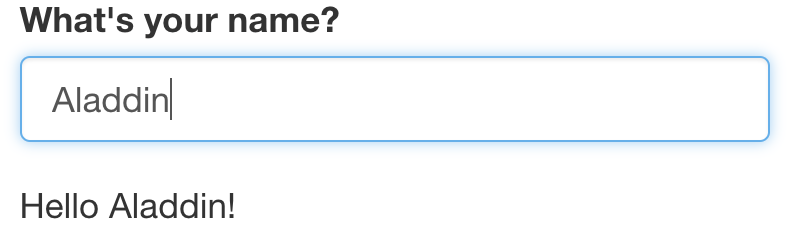
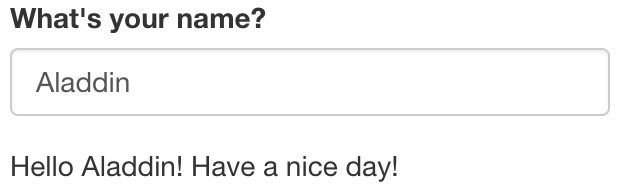
edit reactivity

diff --git a/docs/reactivity.html b/docs/reactivity.html
@@ -23,7 +23,7 @@
 <meta name="author" content="Nitika K., Adele B., Paul F. H." />
 
 
-<meta name="date" content="2022-04-28" />
+<meta name="date" content="2022-05-11" />
 
   <meta name="viewport" content="width=device-width, initial-scale=1" />
   <meta name="apple-mobile-web-app-capable" content="yes" />
@@ -180,7 +180,11 @@ code span.wa { color: #60a0b0; font-weight: bold; font-style: italic; } /* Warni
 <ul>
 <li><a href="reactivity.html#challenge-3-modify-greeting.r-to-print-the-reverse">Challenge 3: Modify <code>greeting.R</code> to print the reverse<span></span></a></li>
 </ul></li>
-<li class="chapter" data-level="4.2" data-path="reactivity.html"><a href="reactivity.html#reactive-expressions-save-recomputation"><i class="fa fa-check"></i><b>4.2</b> Reactive expressions save recomputation<span></span></a></li>
+<li class="chapter" data-level="4.2" data-path="reactivity.html"><a href="reactivity.html#reactive-expressions-save-recomputation"><i class="fa fa-check"></i><b>4.2</b> Reactive expressions save recomputation<span></span></a>
+<ul>
+<li class="chapter" data-level="4.2.1" data-path="reactivity.html"><a href="reactivity.html#r-expressiovs-vs-reactive-expressions"><i class="fa fa-check"></i><b>4.2.1</b> R expressiovs vs Reactive expressions<span></span></a></li>
+<li class="chapter" data-level="4.2.2" data-path="reactivity.html"><a href="reactivity.html#workings-of-reactive-expressions"><i class="fa fa-check"></i><b>4.2.2</b> Workings of reactive expressions<span></span></a></li>
+</ul></li>
 </ul></li>
 <li class="chapter" data-level="5" data-path="tutorial.html"><a href="tutorial.html"><i class="fa fa-check"></i><b>5</b> Shiny tutorial<span></span></a>
 <ul>
@@ -218,19 +222,19 @@ code span.wa { color: #60a0b0; font-weight: bold; font-style: italic; } /* Warni
 <div id="overview-of-reactivity" class="section level2 hasAnchor" number="4.1">
 <h2><span class="header-section-number">4.1</span> Overview of Reactivity<a href="reactivity.html#overview-of-reactivity" class="anchor-section" aria-label="Anchor link to header"></a></h2>
 <p>In Section <a href="structure.html#structure">3</a>, we mentioned that the Shiny server logic is based on reactive programming. The server takes input from the UI, runs the code chunks defined within, generates output and sends it to the UI. When you change the input, the server re-runs the code chunks and sends the updated output to the UI.</p>
-<p>Consider the following example. The UI takes a single text input i.e. name of a person. The server concatenates the input string with “Hello” at the start and, “!” at the end and returns this string to the UI.</p>
+<p>Consider the following example. The UI takes a single text input i.e. name of a person. The server concatenates the input string with “Hello” at the start and, “!” at the end, followed by another string “Have a nice day!”, and returns the concatenated string to the UI and prints as output.</p>
 <div class="sourceCode" id="cb1"><pre class="sourceCode r"><code class="sourceCode r"><span id="cb1-1"><a href="reactivity.html#cb1-1" aria-hidden="true" tabindex="-1"></a>ui <span class="ot">&lt;-</span> <span class="fu">fluidPage</span>(</span>
-<span id="cb1-2"><a href="reactivity.html#cb1-2" aria-hidden="true" tabindex="-1"></a>  <span class="fu">textInput</span>(<span class="st">&quot;name&quot;</span>, <span class="st">&quot;What&#39;s your name?&quot;</span>),</span>
-<span id="cb1-3"><a href="reactivity.html#cb1-3" aria-hidden="true" tabindex="-1"></a>  <span class="fu">textOutput</span>(<span class="st">&quot;greeting&quot;</span>)</span>
+<span id="cb1-2"><a href="reactivity.html#cb1-2" aria-hidden="true" tabindex="-1"></a>    <span class="fu">textInput</span>(<span class="st">&quot;name&quot;</span>, <span class="st">&quot;What&#39;s your name?&quot;</span>),</span>
+<span id="cb1-3"><a href="reactivity.html#cb1-3" aria-hidden="true" tabindex="-1"></a>    <span class="fu">textOutput</span>(<span class="st">&quot;greeting&quot;</span>)</span>
 <span id="cb1-4"><a href="reactivity.html#cb1-4" aria-hidden="true" tabindex="-1"></a>)</span>
 <span id="cb1-5"><a href="reactivity.html#cb1-5" aria-hidden="true" tabindex="-1"></a></span>
 <span id="cb1-6"><a href="reactivity.html#cb1-6" aria-hidden="true" tabindex="-1"></a>server <span class="ot">&lt;-</span> <span class="cf">function</span>(input, output, session) {</span>
-<span id="cb1-7"><a href="reactivity.html#cb1-7" aria-hidden="true" tabindex="-1"></a>  output<span class="sc">$</span>greeting <span class="ot">&lt;-</span> <span class="fu">renderText</span>({</span>
-<span id="cb1-8"><a href="reactivity.html#cb1-8" aria-hidden="true" tabindex="-1"></a>    <span class="fu">paste0</span>(<span class="st">&quot;Hello &quot;</span>, input<span class="sc">$</span>name, <span class="st">&quot;!&quot;</span>)</span>
-<span id="cb1-9"><a href="reactivity.html#cb1-9" aria-hidden="true" tabindex="-1"></a>  })</span>
+<span id="cb1-7"><a href="reactivity.html#cb1-7" aria-hidden="true" tabindex="-1"></a>    output<span class="sc">$</span>greeting <span class="ot">&lt;-</span> <span class="fu">renderText</span>({</span>
+<span id="cb1-8"><a href="reactivity.html#cb1-8" aria-hidden="true" tabindex="-1"></a>        <span class="fu">paste0</span>(<span class="st">&quot;Hello &quot;</span>, input<span class="sc">$</span>name, <span class="st">&quot;!&quot;</span>, <span class="st">&quot;</span><span class="sc">\n</span><span class="st">&quot;</span>, <span class="st">&quot;Have a nice day!&quot;</span>)</span>
+<span id="cb1-9"><a href="reactivity.html#cb1-9" aria-hidden="true" tabindex="-1"></a>    })</span>
 <span id="cb1-10"><a href="reactivity.html#cb1-10" aria-hidden="true" tabindex="-1"></a>}</span></code></pre></div>
 <p><img src="figs/Nitika.png" style="width:50.0%" />
-<img src="figs/bat.png" style="width:50.0%" />
+<img src="figs/Batman.png" style="width:50.0%" />
 <img src="figs/Aladdin.png" style="width:50.0%" /></p>
 <div id="challenge-3-modify-greeting.r-to-print-the-reverse" class="section level3 unnumbered challenge hasAnchor">
 <h3>Challenge 3: Modify <code>greeting.R</code> to print the reverse<a href="reactivity.html#challenge-3-modify-greeting.r-to-print-the-reverse" class="anchor-section" aria-label="Anchor link to header"></a></h3>
@@ -243,110 +247,141 @@ code span.wa { color: #60a0b0; font-weight: bold; font-style: italic; } /* Warni
 </div>
 <div id="reactive-expressions-save-recomputation" class="section level2 hasAnchor" number="4.2">
 <h2><span class="header-section-number">4.2</span> Reactive expressions save recomputation<a href="reactivity.html#reactive-expressions-save-recomputation" class="anchor-section" aria-label="Anchor link to header"></a></h2>
+<div id="r-expressiovs-vs-reactive-expressions" class="section level3 hasAnchor" number="4.2.1">
+<h3><span class="header-section-number">4.2.1</span> R expressiovs vs Reactive expressions<a href="reactivity.html#r-expressiovs-vs-reactive-expressions" class="anchor-section" aria-label="Anchor link to header"></a></h3>
+<p>In this example, we assign a value of <code>5</code> to the variable <code>a</code>. Using R expressions, we add <code>10</code> to <code>a</code>, which prints the result as <code>15</code>. Then, we update the value of <code>a</code> to <code>10</code>. Even though, the new value of <code>a</code> is now <code>10</code>, nothing happens! This is because, we haven’t called the expression <code>a + 10</code>. In order to see the updated output of our expression, we need to explicitly re-run the expression. This is how the R expressions work.</p>
+<div class="sourceCode" id="cb2"><pre class="sourceCode r"><code class="sourceCode r"><span id="cb2-1"><a href="reactivity.html#cb2-1" aria-hidden="true" tabindex="-1"></a>a <span class="ot">&lt;-</span> <span class="dv">5</span></span>
+<span id="cb2-2"><a href="reactivity.html#cb2-2" aria-hidden="true" tabindex="-1"></a>a <span class="sc">+</span> <span class="dv">10</span></span></code></pre></div>
+<pre><code>## [1] 15</code></pre>
+<div class="sourceCode" id="cb4"><pre class="sourceCode r"><code class="sourceCode r"><span id="cb4-1"><a href="reactivity.html#cb4-1" aria-hidden="true" tabindex="-1"></a>a <span class="ot">&lt;-</span> <span class="dv">10</span></span>
+<span id="cb4-2"><a href="reactivity.html#cb4-2" aria-hidden="true" tabindex="-1"></a>a</span></code></pre></div>
+<pre><code>## [1] 10</code></pre>
+<p>The input of a reactive expression is called a reactive input. When we change the reactive input value <code>input$a</code>, the expression itself changes and re-executes itself, if necessary.</p>
 <p>Example of a reactive expression</p>
-<div class="sourceCode" id="cb2"><pre class="sourceCode r"><code class="sourceCode r"><span id="cb2-1"><a href="reactivity.html#cb2-1" aria-hidden="true" tabindex="-1"></a><span class="fu">library</span>(shiny)</span>
-<span id="cb2-2"><a href="reactivity.html#cb2-2" aria-hidden="true" tabindex="-1"></a>y <span class="ot">&lt;-</span> <span class="fu">reactive</span>(input<span class="sc">$</span>x <span class="sc">+</span> <span class="dv">1</span>)</span>
-<span id="cb2-3"><a href="reactivity.html#cb2-3" aria-hidden="true" tabindex="-1"></a></span>
-<span id="cb2-4"><a href="reactivity.html#cb2-4" aria-hidden="true" tabindex="-1"></a><span class="co"># or</span></span>
-<span id="cb2-5"><a href="reactivity.html#cb2-5" aria-hidden="true" tabindex="-1"></a>y <span class="ot">&lt;-</span> <span class="fu">reactive</span>({</span>
-<span id="cb2-6"><a href="reactivity.html#cb2-6" aria-hidden="true" tabindex="-1"></a>    input<span class="sc">$</span>x <span class="sc">+</span> <span class="dv">1</span></span>
-<span id="cb2-7"><a href="reactivity.html#cb2-7" aria-hidden="true" tabindex="-1"></a>})</span>
-<span id="cb2-8"><a href="reactivity.html#cb2-8" aria-hidden="true" tabindex="-1"></a></span>
-<span id="cb2-9"><a href="reactivity.html#cb2-9" aria-hidden="true" tabindex="-1"></a><span class="co"># or</span></span>
-<span id="cb2-10"><a href="reactivity.html#cb2-10" aria-hidden="true" tabindex="-1"></a>y <span class="ot">&lt;-</span> <span class="fu">reactive</span>({</span>
-<span id="cb2-11"><a href="reactivity.html#cb2-11" aria-hidden="true" tabindex="-1"></a>    <span class="fu">return</span>(input<span class="sc">$</span>x <span class="sc">+</span> <span class="dv">1</span>)</span>
-<span id="cb2-12"><a href="reactivity.html#cb2-12" aria-hidden="true" tabindex="-1"></a>})</span></code></pre></div>
+<div class="sourceCode" id="cb6"><pre class="sourceCode r"><code class="sourceCode r"><span id="cb6-1"><a href="reactivity.html#cb6-1" aria-hidden="true" tabindex="-1"></a><span class="fu">library</span>(shiny)</span>
+<span id="cb6-2"><a href="reactivity.html#cb6-2" aria-hidden="true" tabindex="-1"></a>y <span class="ot">&lt;-</span> <span class="fu">reactive</span>(input<span class="sc">$</span>a <span class="sc">+</span> <span class="dv">1</span>)</span></code></pre></div>
+<p>You can write the same expression in different ways:</p>
+<div class="sourceCode" id="cb7"><pre class="sourceCode r"><code class="sourceCode r"><span id="cb7-1"><a href="reactivity.html#cb7-1" aria-hidden="true" tabindex="-1"></a><span class="co"># or</span></span>
+<span id="cb7-2"><a href="reactivity.html#cb7-2" aria-hidden="true" tabindex="-1"></a>y <span class="ot">&lt;-</span> <span class="fu">reactive</span>({</span>
+<span id="cb7-3"><a href="reactivity.html#cb7-3" aria-hidden="true" tabindex="-1"></a>    input<span class="sc">$</span>a <span class="sc">+</span> <span class="dv">1</span></span>
+<span id="cb7-4"><a href="reactivity.html#cb7-4" aria-hidden="true" tabindex="-1"></a>})</span>
+<span id="cb7-5"><a href="reactivity.html#cb7-5" aria-hidden="true" tabindex="-1"></a></span>
+<span id="cb7-6"><a href="reactivity.html#cb7-6" aria-hidden="true" tabindex="-1"></a><span class="co"># or</span></span>
+<span id="cb7-7"><a href="reactivity.html#cb7-7" aria-hidden="true" tabindex="-1"></a>y <span class="ot">&lt;-</span> <span class="fu">reactive</span>({</span>
+<span id="cb7-8"><a href="reactivity.html#cb7-8" aria-hidden="true" tabindex="-1"></a>    <span class="fu">return</span>(input<span class="sc">$</span>a <span class="sc">+</span> <span class="dv">1</span>)</span>
+<span id="cb7-9"><a href="reactivity.html#cb7-9" aria-hidden="true" tabindex="-1"></a>})</span></code></pre></div>
+</div>
+<div id="workings-of-reactive-expressions" class="section level3 hasAnchor" number="4.2.2">
+<h3><span class="header-section-number">4.2.2</span> Workings of reactive expressions<a href="reactivity.html#workings-of-reactive-expressions" class="anchor-section" aria-label="Anchor link to header"></a></h3>
+<div class="sourceCode" id="cb8"><pre class="sourceCode r"><code class="sourceCode r"><span id="cb8-1"><a href="reactivity.html#cb8-1" aria-hidden="true" tabindex="-1"></a>input <span class="ot">&lt;-</span> <span class="fu">reactiveValues</span>(<span class="at">a=</span><span class="dv">1</span>)</span>
+<span id="cb8-2"><a href="reactivity.html#cb8-2" aria-hidden="true" tabindex="-1"></a></span>
+<span id="cb8-3"><a href="reactivity.html#cb8-3" aria-hidden="true" tabindex="-1"></a>expr1 <span class="ot">&lt;-</span> <span class="fu">reactive</span>({</span>
+<span id="cb8-4"><a href="reactivity.html#cb8-4" aria-hidden="true" tabindex="-1"></a>    input<span class="sc">$</span>a <span class="sc">+</span> <span class="dv">1</span></span>
+<span id="cb8-5"><a href="reactivity.html#cb8-5" aria-hidden="true" tabindex="-1"></a>})</span>
+<span id="cb8-6"><a href="reactivity.html#cb8-6" aria-hidden="true" tabindex="-1"></a></span>
+<span id="cb8-7"><a href="reactivity.html#cb8-7" aria-hidden="true" tabindex="-1"></a></span>
+<span id="cb8-8"><a href="reactivity.html#cb8-8" aria-hidden="true" tabindex="-1"></a>expr2 <span class="ot">&lt;-</span> <span class="fu">reactive</span>({ </span>
+<span id="cb8-9"><a href="reactivity.html#cb8-9" aria-hidden="true" tabindex="-1"></a>    input<span class="sc">$</span>a <span class="sc">*</span> <span class="dv">10</span> })</span>
+<span id="cb8-10"><a href="reactivity.html#cb8-10" aria-hidden="true" tabindex="-1"></a></span>
+<span id="cb8-11"><a href="reactivity.html#cb8-11" aria-hidden="true" tabindex="-1"></a></span>
+<span id="cb8-12"><a href="reactivity.html#cb8-12" aria-hidden="true" tabindex="-1"></a>expr3 <span class="ot">&lt;-</span> <span class="fu">reactive</span>({</span>
+<span id="cb8-13"><a href="reactivity.html#cb8-13" aria-hidden="true" tabindex="-1"></a>    (input<span class="sc">$</span>a <span class="sc">+</span> <span class="dv">3</span>)<span class="sc">*</span><span class="dv">4</span>})</span></code></pre></div>
+<p>You execute the reactive expressions just as you would a function. <code>isolate()</code> helps us view the values of the reactive expression in the R console.</p>
+<div class="sourceCode" id="cb9"><pre class="sourceCode r"><code class="sourceCode r"><span id="cb9-1"><a href="reactivity.html#cb9-1" aria-hidden="true" tabindex="-1"></a><span class="fu">isolate</span>(<span class="fu">expr1</span>())</span>
+<span id="cb9-2"><a href="reactivity.html#cb9-2" aria-hidden="true" tabindex="-1"></a><span class="fu">isolate</span>(<span class="fu">expr2</span>())</span>
+<span id="cb9-3"><a href="reactivity.html#cb9-3" aria-hidden="true" tabindex="-1"></a><span class="fu">isolate</span>(<span class="fu">expr3</span>())</span></code></pre></div>
 <p>Reactivity explained using Pythagoras calculation: We have used <code>browser()</code> calls to debug the function</p>
-<div class="sourceCode" id="cb3"><pre class="sourceCode r"><code class="sourceCode r"><span id="cb3-1"><a href="reactivity.html#cb3-1" aria-hidden="true" tabindex="-1"></a>ui_pythagorus <span class="ot">&lt;-</span> <span class="fu">fluidPage</span>(</span>
-<span id="cb3-2"><a href="reactivity.html#cb3-2" aria-hidden="true" tabindex="-1"></a>    <span class="fu">titlePanel</span>(<span class="st">&quot;Hypotenuse app&quot;</span>),</span>
-<span id="cb3-3"><a href="reactivity.html#cb3-3" aria-hidden="true" tabindex="-1"></a>    <span class="fu">sliderInput</span>(<span class="st">&quot;a&quot;</span>, <span class="st">&quot;Length a&quot;</span>, <span class="dv">0</span>, <span class="dv">10</span>, <span class="dv">5</span>),</span>
-<span id="cb3-4"><a href="reactivity.html#cb3-4" aria-hidden="true" tabindex="-1"></a>    <span class="fu">sliderInput</span>(<span class="st">&quot;b&quot;</span>, <span class="st">&quot;Length b&quot;</span>, <span class="dv">0</span>, <span class="dv">10</span>, <span class="dv">5</span>),</span>
-<span id="cb3-5"><a href="reactivity.html#cb3-5" aria-hidden="true" tabindex="-1"></a>    <span class="fu">textOutput</span>(<span class="st">&quot;result&quot;</span>))</span>
-<span id="cb3-6"><a href="reactivity.html#cb3-6" aria-hidden="true" tabindex="-1"></a></span>
-<span id="cb3-7"><a href="reactivity.html#cb3-7" aria-hidden="true" tabindex="-1"></a>server_pythagorus <span class="ot">&lt;-</span> <span class="cf">function</span>(input, output, server) {</span>
-<span id="cb3-8"><a href="reactivity.html#cb3-8" aria-hidden="true" tabindex="-1"></a>    a2 <span class="ot">&lt;-</span> <span class="fu">reactive</span>({</span>
-<span id="cb3-9"><a href="reactivity.html#cb3-9" aria-hidden="true" tabindex="-1"></a>        <span class="fu">cat</span>(<span class="st">&quot;Compute a squared.</span><span class="sc">\n</span><span class="st">&quot;</span>)</span>
-<span id="cb3-10"><a href="reactivity.html#cb3-10" aria-hidden="true" tabindex="-1"></a></span>
-<span id="cb3-11"><a href="reactivity.html#cb3-11" aria-hidden="true" tabindex="-1"></a>        input<span class="sc">$</span>a <span class="sc">**</span> <span class="dv">2</span></span>
-<span id="cb3-12"><a href="reactivity.html#cb3-12" aria-hidden="true" tabindex="-1"></a>    })</span>
-<span id="cb3-13"><a href="reactivity.html#cb3-13" aria-hidden="true" tabindex="-1"></a>    <span class="fu">browser</span>()</span>
-<span id="cb3-14"><a href="reactivity.html#cb3-14" aria-hidden="true" tabindex="-1"></a></span>
-<span id="cb3-15"><a href="reactivity.html#cb3-15" aria-hidden="true" tabindex="-1"></a>    b2 <span class="ot">&lt;-</span> <span class="fu">reactive</span>({</span>
-<span id="cb3-16"><a href="reactivity.html#cb3-16" aria-hidden="true" tabindex="-1"></a>        <span class="fu">cat</span>(<span class="st">&quot;Compute b squared.</span><span class="sc">\n</span><span class="st">&quot;</span>)</span>
-<span id="cb3-17"><a href="reactivity.html#cb3-17" aria-hidden="true" tabindex="-1"></a></span>
-<span id="cb3-18"><a href="reactivity.html#cb3-18" aria-hidden="true" tabindex="-1"></a>        input<span class="sc">$</span>b <span class="sc">**</span> <span class="dv">2</span></span>
-<span id="cb3-19"><a href="reactivity.html#cb3-19" aria-hidden="true" tabindex="-1"></a>    })</span>
-<span id="cb3-20"><a href="reactivity.html#cb3-20" aria-hidden="true" tabindex="-1"></a>    <span class="fu">browser</span>()</span>
-<span id="cb3-21"><a href="reactivity.html#cb3-21" aria-hidden="true" tabindex="-1"></a></span>
-<span id="cb3-22"><a href="reactivity.html#cb3-22" aria-hidden="true" tabindex="-1"></a>    output<span class="sc">$</span>result <span class="ot">&lt;-</span> <span class="fu">renderText</span>({</span>
-<span id="cb3-23"><a href="reactivity.html#cb3-23" aria-hidden="true" tabindex="-1"></a>        <span class="fu">cat</span>(<span class="st">&quot;Compute hypotenuse.</span><span class="sc">\n</span><span class="st">&quot;</span>)</span>
-<span id="cb3-24"><a href="reactivity.html#cb3-24" aria-hidden="true" tabindex="-1"></a>        h <span class="ot">&lt;-</span> <span class="fu">sqrt</span>(<span class="fu">a2</span>() <span class="sc">+</span> <span class="fu">b2</span>())</span>
-<span id="cb3-25"><a href="reactivity.html#cb3-25" aria-hidden="true" tabindex="-1"></a>        <span class="fu">cat</span>(<span class="st">&quot;Done computing hypotenuse.</span><span class="sc">\n</span><span class="st">&quot;</span>)</span>
-<span id="cb3-26"><a href="reactivity.html#cb3-26" aria-hidden="true" tabindex="-1"></a></span>
-<span id="cb3-27"><a href="reactivity.html#cb3-27" aria-hidden="true" tabindex="-1"></a>        <span class="fu">paste0</span>(<span class="st">&quot;The hypotenuse is &quot;</span>, h)</span>
-<span id="cb3-28"><a href="reactivity.html#cb3-28" aria-hidden="true" tabindex="-1"></a>    })</span>
-<span id="cb3-29"><a href="reactivity.html#cb3-29" aria-hidden="true" tabindex="-1"></a>    <span class="fu">browser</span>()</span>
-<span id="cb3-30"><a href="reactivity.html#cb3-30" aria-hidden="true" tabindex="-1"></a>}</span></code></pre></div>
+<div class="sourceCode" id="cb10"><pre class="sourceCode r"><code class="sourceCode r"><span id="cb10-1"><a href="reactivity.html#cb10-1" aria-hidden="true" tabindex="-1"></a>ui_pythagorus <span class="ot">&lt;-</span> <span class="fu">fluidPage</span>(</span>
+<span id="cb10-2"><a href="reactivity.html#cb10-2" aria-hidden="true" tabindex="-1"></a>    <span class="fu">titlePanel</span>(<span class="st">&quot;Hypotenuse app&quot;</span>),</span>
+<span id="cb10-3"><a href="reactivity.html#cb10-3" aria-hidden="true" tabindex="-1"></a>    <span class="fu">sliderInput</span>(<span class="st">&quot;a&quot;</span>, <span class="st">&quot;Length a&quot;</span>, <span class="dv">0</span>, <span class="dv">10</span>, <span class="dv">5</span>),</span>
+<span id="cb10-4"><a href="reactivity.html#cb10-4" aria-hidden="true" tabindex="-1"></a>    <span class="fu">sliderInput</span>(<span class="st">&quot;b&quot;</span>, <span class="st">&quot;Length b&quot;</span>, <span class="dv">0</span>, <span class="dv">10</span>, <span class="dv">5</span>),</span>
+<span id="cb10-5"><a href="reactivity.html#cb10-5" aria-hidden="true" tabindex="-1"></a>    <span class="fu">textOutput</span>(<span class="st">&quot;result&quot;</span>))</span>
+<span id="cb10-6"><a href="reactivity.html#cb10-6" aria-hidden="true" tabindex="-1"></a></span>
+<span id="cb10-7"><a href="reactivity.html#cb10-7" aria-hidden="true" tabindex="-1"></a>server_pythagorus <span class="ot">&lt;-</span> <span class="cf">function</span>(input, output, server) {</span>
+<span id="cb10-8"><a href="reactivity.html#cb10-8" aria-hidden="true" tabindex="-1"></a>    a2 <span class="ot">&lt;-</span> <span class="fu">reactive</span>({</span>
+<span id="cb10-9"><a href="reactivity.html#cb10-9" aria-hidden="true" tabindex="-1"></a>        <span class="fu">cat</span>(<span class="st">&quot;Compute a squared.</span><span class="sc">\n</span><span class="st">&quot;</span>)</span>
+<span id="cb10-10"><a href="reactivity.html#cb10-10" aria-hidden="true" tabindex="-1"></a></span>
+<span id="cb10-11"><a href="reactivity.html#cb10-11" aria-hidden="true" tabindex="-1"></a>        input<span class="sc">$</span>a <span class="sc">**</span> <span class="dv">2</span></span>
+<span id="cb10-12"><a href="reactivity.html#cb10-12" aria-hidden="true" tabindex="-1"></a>    })</span>
+<span id="cb10-13"><a href="reactivity.html#cb10-13" aria-hidden="true" tabindex="-1"></a>    <span class="fu">browser</span>()</span>
+<span id="cb10-14"><a href="reactivity.html#cb10-14" aria-hidden="true" tabindex="-1"></a></span>
+<span id="cb10-15"><a href="reactivity.html#cb10-15" aria-hidden="true" tabindex="-1"></a>    b2 <span class="ot">&lt;-</span> <span class="fu">reactive</span>({</span>
+<span id="cb10-16"><a href="reactivity.html#cb10-16" aria-hidden="true" tabindex="-1"></a>        <span class="fu">cat</span>(<span class="st">&quot;Compute b squared.</span><span class="sc">\n</span><span class="st">&quot;</span>)</span>
+<span id="cb10-17"><a href="reactivity.html#cb10-17" aria-hidden="true" tabindex="-1"></a></span>
+<span id="cb10-18"><a href="reactivity.html#cb10-18" aria-hidden="true" tabindex="-1"></a>        input<span class="sc">$</span>b <span class="sc">**</span> <span class="dv">2</span></span>
+<span id="cb10-19"><a href="reactivity.html#cb10-19" aria-hidden="true" tabindex="-1"></a>    })</span>
+<span id="cb10-20"><a href="reactivity.html#cb10-20" aria-hidden="true" tabindex="-1"></a>    <span class="fu">browser</span>()</span>
+<span id="cb10-21"><a href="reactivity.html#cb10-21" aria-hidden="true" tabindex="-1"></a></span>
+<span id="cb10-22"><a href="reactivity.html#cb10-22" aria-hidden="true" tabindex="-1"></a>    output<span class="sc">$</span>result <span class="ot">&lt;-</span> <span class="fu">renderText</span>({</span>
+<span id="cb10-23"><a href="reactivity.html#cb10-23" aria-hidden="true" tabindex="-1"></a>        <span class="fu">cat</span>(<span class="st">&quot;Compute hypotenuse.</span><span class="sc">\n</span><span class="st">&quot;</span>)</span>
+<span id="cb10-24"><a href="reactivity.html#cb10-24" aria-hidden="true" tabindex="-1"></a>        h <span class="ot">&lt;-</span> <span class="fu">sqrt</span>(<span class="fu">a2</span>() <span class="sc">+</span> <span class="fu">b2</span>())</span>
+<span id="cb10-25"><a href="reactivity.html#cb10-25" aria-hidden="true" tabindex="-1"></a>        <span class="fu">cat</span>(<span class="st">&quot;Done computing hypotenuse.</span><span class="sc">\n</span><span class="st">&quot;</span>)</span>
+<span id="cb10-26"><a href="reactivity.html#cb10-26" aria-hidden="true" tabindex="-1"></a></span>
+<span id="cb10-27"><a href="reactivity.html#cb10-27" aria-hidden="true" tabindex="-1"></a>        <span class="fu">paste0</span>(<span class="st">&quot;The hypotenuse is &quot;</span>, h)</span>
+<span id="cb10-28"><a href="reactivity.html#cb10-28" aria-hidden="true" tabindex="-1"></a>    })</span>
+<span id="cb10-29"><a href="reactivity.html#cb10-29" aria-hidden="true" tabindex="-1"></a>    <span class="fu">browser</span>()</span>
+<span id="cb10-30"><a href="reactivity.html#cb10-30" aria-hidden="true" tabindex="-1"></a>}</span></code></pre></div>
 <p>Now, we run the function</p>
-<div class="sourceCode" id="cb4"><pre class="sourceCode r"><code class="sourceCode r"><span id="cb4-1"><a href="reactivity.html#cb4-1" aria-hidden="true" tabindex="-1"></a><span class="fu">server_pythagorus</span>()</span></code></pre></div>
+<div class="sourceCode" id="cb11"><pre class="sourceCode r"><code class="sourceCode r"><span id="cb11-1"><a href="reactivity.html#cb11-1" aria-hidden="true" tabindex="-1"></a><span class="fu">server_pythagorus</span>()</span></code></pre></div>
 <p>There are two types of functions that we can use to access reactivity. We can use <code>render</code> functions or the <code>reactive</code> function. In most simple examples of Shiny applications, we are able to directly connect/link an input widget and an output object with a <code>renderX</code> function (e.g <code>renderTable</code>, <code>renderText</code>, <code>renderPlot</code>). These <code>renderX</code> functions are activated/re-calculated whenever the value of <code>input$someInputId</code> provided to that <code>renderX</code> function is updated/changed.</p>
 <p>In such situations, the result is directed to an output on the UI. But what if you wanted to use the calculated result for multiple outputs? Since the <code>render</code> function directs its result into an output, this means that this value is not freely available to be used by other <code>render</code> functions. One solution could be to run the calculation multiple times with each <code>render</code> function. This isn’t a very efficient solution but it might be one that would do the job. However consider if the calculation was a very large one, rerunning this calculation multiple times might slow the app down a lot to the point of it becoming inoperable.</p>
 <p>This is a situation where a <code>reactive</code> function would be useful. The output of a reactive function can be assigned to a variable name and this variable can be called within different <code>render</code> functions. Like a <code>render</code> function, the <code>reactive</code> function is recalculated any time the value of <code>input$anInputId</code> inside the reactive function is updated or changed.</p>
 <p>Therefore for a more efficient solution, the calculation could performed in the reactive function once and then in multiple <code>render</code> functions, the value of the <code>reactive</code> function could be called.</p>
 <p>Here is an example without a <code>reactive</code> function, somewhat contrived:</p>
-<div class="sourceCode" id="cb5"><pre class="sourceCode r"><code class="sourceCode r"><span id="cb5-1"><a href="reactivity.html#cb5-1" aria-hidden="true" tabindex="-1"></a><span class="fu">library</span>(shiny)</span>
-<span id="cb5-2"><a href="reactivity.html#cb5-2" aria-hidden="true" tabindex="-1"></a><span class="fu">data</span>(<span class="st">&quot;airquality&quot;</span>)</span>
-<span id="cb5-3"><a href="reactivity.html#cb5-3" aria-hidden="true" tabindex="-1"></a></span>
-<span id="cb5-4"><a href="reactivity.html#cb5-4" aria-hidden="true" tabindex="-1"></a>ui <span class="ot">&lt;-</span> <span class="fu">fluidPage</span>(</span>
-<span id="cb5-5"><a href="reactivity.html#cb5-5" aria-hidden="true" tabindex="-1"></a>  <span class="fu">sliderInput</span>(<span class="at">inputId =</span> <span class="st">&quot;tempModifier&quot;</span>, <span class="at">label =</span> <span class="st">&quot;this slider will multiply the temperature column of the `airquality` dataset by the selected value&quot;</span>, <span class="at">min =</span> <span class="dv">0</span>, </span>
-<span id="cb5-6"><a href="reactivity.html#cb5-6" aria-hidden="true" tabindex="-1"></a>        <span class="at">max =</span> <span class="dv">100</span>, <span class="at">value =</span> <span class="dv">50</span>),</span>
-<span id="cb5-7"><a href="reactivity.html#cb5-7" aria-hidden="true" tabindex="-1"></a>  <span class="fu">textOutput</span>(<span class="at">outputId =</span> <span class="st">&quot;airResult&quot;</span>),</span>
-<span id="cb5-8"><a href="reactivity.html#cb5-8" aria-hidden="true" tabindex="-1"></a>  <span class="fu">plotOutput</span>(<span class="at">outputId =</span> <span class="st">&quot;plotResult&quot;</span>)</span>
-<span id="cb5-9"><a href="reactivity.html#cb5-9" aria-hidden="true" tabindex="-1"></a>)</span>
-<span id="cb5-10"><a href="reactivity.html#cb5-10" aria-hidden="true" tabindex="-1"></a></span>
-<span id="cb5-11"><a href="reactivity.html#cb5-11" aria-hidden="true" tabindex="-1"></a>server <span class="ot">&lt;-</span> <span class="cf">function</span>(input, output, session) {</span>
-<span id="cb5-12"><a href="reactivity.html#cb5-12" aria-hidden="true" tabindex="-1"></a>  output<span class="sc">$</span>airResult <span class="ot">&lt;-</span> <span class="fu">renderText</span>({</span>
-<span id="cb5-13"><a href="reactivity.html#cb5-13" aria-hidden="true" tabindex="-1"></a>    new_temp <span class="ot">&lt;-</span> airquality<span class="sc">$</span>Temp <span class="sc">*</span> input<span class="sc">$</span>tempModifier </span>
-<span id="cb5-14"><a href="reactivity.html#cb5-14" aria-hidden="true" tabindex="-1"></a>    <span class="fu">paste0</span>(<span class="st">&quot;the average of the modified temperature is:&quot;</span>, <span class="fu">mean</span>(new_temp))</span>
-<span id="cb5-15"><a href="reactivity.html#cb5-15" aria-hidden="true" tabindex="-1"></a>  })</span>
-<span id="cb5-16"><a href="reactivity.html#cb5-16" aria-hidden="true" tabindex="-1"></a>  </span>
-<span id="cb5-17"><a href="reactivity.html#cb5-17" aria-hidden="true" tabindex="-1"></a>  output<span class="sc">$</span>plotResult <span class="ot">&lt;-</span>  <span class="fu">renderPlot</span>({</span>
-<span id="cb5-18"><a href="reactivity.html#cb5-18" aria-hidden="true" tabindex="-1"></a>    new_temp <span class="ot">&lt;-</span> airquality<span class="sc">$</span>Temp <span class="sc">*</span> input<span class="sc">$</span>tempModifier <span class="co"># we are performing the same calculation twice</span></span>
-<span id="cb5-19"><a href="reactivity.html#cb5-19" aria-hidden="true" tabindex="-1"></a>    <span class="fu">plot</span>(<span class="at">x=</span>airquality<span class="sc">$</span>Temp, <span class="at">y =</span> new_temp, <span class="at">ylim =</span> <span class="fu">c</span>(<span class="dv">0</span>, <span class="dv">8000</span>))</span>
-<span id="cb5-20"><a href="reactivity.html#cb5-20" aria-hidden="true" tabindex="-1"></a>  })</span>
-<span id="cb5-21"><a href="reactivity.html#cb5-21" aria-hidden="true" tabindex="-1"></a>  </span>
-<span id="cb5-22"><a href="reactivity.html#cb5-22" aria-hidden="true" tabindex="-1"></a>}</span>
-<span id="cb5-23"><a href="reactivity.html#cb5-23" aria-hidden="true" tabindex="-1"></a></span>
-<span id="cb5-24"><a href="reactivity.html#cb5-24" aria-hidden="true" tabindex="-1"></a><span class="fu">shinyApp</span>(ui, server)</span></code></pre></div>
+<div class="sourceCode" id="cb12"><pre class="sourceCode r"><code class="sourceCode r"><span id="cb12-1"><a href="reactivity.html#cb12-1" aria-hidden="true" tabindex="-1"></a><span class="fu">library</span>(shiny)</span>
+<span id="cb12-2"><a href="reactivity.html#cb12-2" aria-hidden="true" tabindex="-1"></a><span class="fu">data</span>(<span class="st">&quot;airquality&quot;</span>)</span>
+<span id="cb12-3"><a href="reactivity.html#cb12-3" aria-hidden="true" tabindex="-1"></a></span>
+<span id="cb12-4"><a href="reactivity.html#cb12-4" aria-hidden="true" tabindex="-1"></a>ui <span class="ot">&lt;-</span> <span class="fu">fluidPage</span>(</span>
+<span id="cb12-5"><a href="reactivity.html#cb12-5" aria-hidden="true" tabindex="-1"></a>  <span class="fu">sliderInput</span>(<span class="at">inputId =</span> <span class="st">&quot;tempModifier&quot;</span>, <span class="at">label =</span> <span class="st">&quot;this slider will multiply the temperature column of the `airquality` dataset by the selected value&quot;</span>, <span class="at">min =</span> <span class="dv">0</span>, </span>
+<span id="cb12-6"><a href="reactivity.html#cb12-6" aria-hidden="true" tabindex="-1"></a>        <span class="at">max =</span> <span class="dv">100</span>, <span class="at">value =</span> <span class="dv">50</span>),</span>
+<span id="cb12-7"><a href="reactivity.html#cb12-7" aria-hidden="true" tabindex="-1"></a>  <span class="fu">textOutput</span>(<span class="at">outputId =</span> <span class="st">&quot;airResult&quot;</span>),</span>
+<span id="cb12-8"><a href="reactivity.html#cb12-8" aria-hidden="true" tabindex="-1"></a>  <span class="fu">plotOutput</span>(<span class="at">outputId =</span> <span class="st">&quot;plotResult&quot;</span>)</span>
+<span id="cb12-9"><a href="reactivity.html#cb12-9" aria-hidden="true" tabindex="-1"></a>)</span>
+<span id="cb12-10"><a href="reactivity.html#cb12-10" aria-hidden="true" tabindex="-1"></a></span>
+<span id="cb12-11"><a href="reactivity.html#cb12-11" aria-hidden="true" tabindex="-1"></a>server <span class="ot">&lt;-</span> <span class="cf">function</span>(input, output, session) {</span>
+<span id="cb12-12"><a href="reactivity.html#cb12-12" aria-hidden="true" tabindex="-1"></a>  output<span class="sc">$</span>airResult <span class="ot">&lt;-</span> <span class="fu">renderText</span>({</span>
+<span id="cb12-13"><a href="reactivity.html#cb12-13" aria-hidden="true" tabindex="-1"></a>    new_temp <span class="ot">&lt;-</span> airquality<span class="sc">$</span>Temp <span class="sc">*</span> input<span class="sc">$</span>tempModifier </span>
+<span id="cb12-14"><a href="reactivity.html#cb12-14" aria-hidden="true" tabindex="-1"></a>    <span class="fu">paste0</span>(<span class="st">&quot;the average of the modified temperature is:&quot;</span>, <span class="fu">mean</span>(new_temp))</span>
+<span id="cb12-15"><a href="reactivity.html#cb12-15" aria-hidden="true" tabindex="-1"></a>  })</span>
+<span id="cb12-16"><a href="reactivity.html#cb12-16" aria-hidden="true" tabindex="-1"></a>  </span>
+<span id="cb12-17"><a href="reactivity.html#cb12-17" aria-hidden="true" tabindex="-1"></a>  output<span class="sc">$</span>plotResult <span class="ot">&lt;-</span>  <span class="fu">renderPlot</span>({</span>
+<span id="cb12-18"><a href="reactivity.html#cb12-18" aria-hidden="true" tabindex="-1"></a>    new_temp <span class="ot">&lt;-</span> airquality<span class="sc">$</span>Temp <span class="sc">*</span> input<span class="sc">$</span>tempModifier <span class="co"># we are performing the same calculation twice</span></span>
+<span id="cb12-19"><a href="reactivity.html#cb12-19" aria-hidden="true" tabindex="-1"></a>    <span class="fu">plot</span>(<span class="at">x=</span>airquality<span class="sc">$</span>Temp, <span class="at">y =</span> new_temp, <span class="at">ylim =</span> <span class="fu">c</span>(<span class="dv">0</span>, <span class="dv">8000</span>))</span>
+<span id="cb12-20"><a href="reactivity.html#cb12-20" aria-hidden="true" tabindex="-1"></a>  })</span>
+<span id="cb12-21"><a href="reactivity.html#cb12-21" aria-hidden="true" tabindex="-1"></a>  </span>
+<span id="cb12-22"><a href="reactivity.html#cb12-22" aria-hidden="true" tabindex="-1"></a>}</span>
+<span id="cb12-23"><a href="reactivity.html#cb12-23" aria-hidden="true" tabindex="-1"></a></span>
+<span id="cb12-24"><a href="reactivity.html#cb12-24" aria-hidden="true" tabindex="-1"></a><span class="fu">shinyApp</span>(ui, server)</span></code></pre></div>
 <p>Here an example with a <code>reactive</code> function:</p>
-<div class="sourceCode" id="cb6"><pre class="sourceCode r"><code class="sourceCode r"><span id="cb6-1"><a href="reactivity.html#cb6-1" aria-hidden="true" tabindex="-1"></a><span class="fu">library</span>(shiny)</span>
-<span id="cb6-2"><a href="reactivity.html#cb6-2" aria-hidden="true" tabindex="-1"></a><span class="fu">data</span>(<span class="st">&quot;airquality&quot;</span>)</span>
-<span id="cb6-3"><a href="reactivity.html#cb6-3" aria-hidden="true" tabindex="-1"></a></span>
-<span id="cb6-4"><a href="reactivity.html#cb6-4" aria-hidden="true" tabindex="-1"></a>ui <span class="ot">&lt;-</span> <span class="fu">fluidPage</span>(</span>
-<span id="cb6-5"><a href="reactivity.html#cb6-5" aria-hidden="true" tabindex="-1"></a>  <span class="fu">sliderInput</span>(<span class="at">inputId =</span> <span class="st">&quot;tempModifier&quot;</span>, <span class="at">label =</span> <span class="st">&quot;this slider will multiply the temperature column of the `airquality` dataset by the selected value&quot;</span>, <span class="at">min =</span> <span class="dv">0</span>, </span>
-<span id="cb6-6"><a href="reactivity.html#cb6-6" aria-hidden="true" tabindex="-1"></a>        <span class="at">max =</span> <span class="dv">100</span>, <span class="at">value =</span> <span class="dv">50</span>),</span>
-<span id="cb6-7"><a href="reactivity.html#cb6-7" aria-hidden="true" tabindex="-1"></a>  <span class="fu">textOutput</span>(<span class="at">outputId =</span> <span class="st">&quot;airResult&quot;</span>),</span>
-<span id="cb6-8"><a href="reactivity.html#cb6-8" aria-hidden="true" tabindex="-1"></a>  <span class="fu">plotOutput</span>(<span class="at">outputId =</span> <span class="st">&quot;plotResult&quot;</span>)</span>
-<span id="cb6-9"><a href="reactivity.html#cb6-9" aria-hidden="true" tabindex="-1"></a>)</span>
-<span id="cb6-10"><a href="reactivity.html#cb6-10" aria-hidden="true" tabindex="-1"></a></span>
-<span id="cb6-11"><a href="reactivity.html#cb6-11" aria-hidden="true" tabindex="-1"></a>server <span class="ot">&lt;-</span> <span class="cf">function</span>(input, output, session) {</span>
-<span id="cb6-12"><a href="reactivity.html#cb6-12" aria-hidden="true" tabindex="-1"></a>  <span class="co"># we&#39;ve used a reactive function to create a reactive variable which can be used by both render functions </span></span>
-<span id="cb6-13"><a href="reactivity.html#cb6-13" aria-hidden="true" tabindex="-1"></a>  new_temp <span class="ot">&lt;-</span>  <span class="fu">reactive</span>({</span>
-<span id="cb6-14"><a href="reactivity.html#cb6-14" aria-hidden="true" tabindex="-1"></a>    airquality<span class="sc">$</span>Temp <span class="sc">*</span> input<span class="sc">$</span>tempModifier</span>
-<span id="cb6-15"><a href="reactivity.html#cb6-15" aria-hidden="true" tabindex="-1"></a>  })</span>
-<span id="cb6-16"><a href="reactivity.html#cb6-16" aria-hidden="true" tabindex="-1"></a>  </span>
-<span id="cb6-17"><a href="reactivity.html#cb6-17" aria-hidden="true" tabindex="-1"></a>  output<span class="sc">$</span>airResult <span class="ot">&lt;-</span> <span class="fu">renderText</span>({</span>
-<span id="cb6-18"><a href="reactivity.html#cb6-18" aria-hidden="true" tabindex="-1"></a>    <span class="fu">paste0</span>(<span class="st">&quot;the average of the modified temperature is:&quot;</span>, <span class="fu">mean</span>(<span class="fu">new_temp</span>()))</span>
-<span id="cb6-19"><a href="reactivity.html#cb6-19" aria-hidden="true" tabindex="-1"></a>  })</span>
-<span id="cb6-20"><a href="reactivity.html#cb6-20" aria-hidden="true" tabindex="-1"></a>  </span>
-<span id="cb6-21"><a href="reactivity.html#cb6-21" aria-hidden="true" tabindex="-1"></a>  output<span class="sc">$</span>plotResult <span class="ot">&lt;-</span>  <span class="fu">renderPlot</span>({</span>
-<span id="cb6-22"><a href="reactivity.html#cb6-22" aria-hidden="true" tabindex="-1"></a>    <span class="fu">plot</span>(<span class="at">x=</span>airquality<span class="sc">$</span>Temp, <span class="at">y =</span> <span class="fu">new_temp</span>(), <span class="at">ylim =</span> <span class="fu">c</span>(<span class="dv">0</span>, <span class="dv">8000</span>))</span>
-<span id="cb6-23"><a href="reactivity.html#cb6-23" aria-hidden="true" tabindex="-1"></a>  })</span>
-<span id="cb6-24"><a href="reactivity.html#cb6-24" aria-hidden="true" tabindex="-1"></a>  </span>
-<span id="cb6-25"><a href="reactivity.html#cb6-25" aria-hidden="true" tabindex="-1"></a>}</span>
-<span id="cb6-26"><a href="reactivity.html#cb6-26" aria-hidden="true" tabindex="-1"></a></span>
-<span id="cb6-27"><a href="reactivity.html#cb6-27" aria-hidden="true" tabindex="-1"></a><span class="fu">shinyApp</span>(ui, server)</span></code></pre></div>
+<div class="sourceCode" id="cb13"><pre class="sourceCode r"><code class="sourceCode r"><span id="cb13-1"><a href="reactivity.html#cb13-1" aria-hidden="true" tabindex="-1"></a><span class="fu">library</span>(shiny)</span>
+<span id="cb13-2"><a href="reactivity.html#cb13-2" aria-hidden="true" tabindex="-1"></a><span class="fu">data</span>(<span class="st">&quot;airquality&quot;</span>)</span>
+<span id="cb13-3"><a href="reactivity.html#cb13-3" aria-hidden="true" tabindex="-1"></a></span>
+<span id="cb13-4"><a href="reactivity.html#cb13-4" aria-hidden="true" tabindex="-1"></a>ui <span class="ot">&lt;-</span> <span class="fu">fluidPage</span>(</span>
+<span id="cb13-5"><a href="reactivity.html#cb13-5" aria-hidden="true" tabindex="-1"></a>  <span class="fu">sliderInput</span>(<span class="at">inputId =</span> <span class="st">&quot;tempModifier&quot;</span>, <span class="at">label =</span> <span class="st">&quot;this slider will multiply the temperature column of the `airquality` dataset by the selected value&quot;</span>, <span class="at">min =</span> <span class="dv">0</span>, </span>
+<span id="cb13-6"><a href="reactivity.html#cb13-6" aria-hidden="true" tabindex="-1"></a>        <span class="at">max =</span> <span class="dv">100</span>, <span class="at">value =</span> <span class="dv">50</span>),</span>
+<span id="cb13-7"><a href="reactivity.html#cb13-7" aria-hidden="true" tabindex="-1"></a>  <span class="fu">textOutput</span>(<span class="at">outputId =</span> <span class="st">&quot;airResult&quot;</span>),</span>
+<span id="cb13-8"><a href="reactivity.html#cb13-8" aria-hidden="true" tabindex="-1"></a>  <span class="fu">plotOutput</span>(<span class="at">outputId =</span> <span class="st">&quot;plotResult&quot;</span>)</span>
+<span id="cb13-9"><a href="reactivity.html#cb13-9" aria-hidden="true" tabindex="-1"></a>)</span>
+<span id="cb13-10"><a href="reactivity.html#cb13-10" aria-hidden="true" tabindex="-1"></a></span>
+<span id="cb13-11"><a href="reactivity.html#cb13-11" aria-hidden="true" tabindex="-1"></a>server <span class="ot">&lt;-</span> <span class="cf">function</span>(input, output, session) {</span>
+<span id="cb13-12"><a href="reactivity.html#cb13-12" aria-hidden="true" tabindex="-1"></a>  <span class="co"># we&#39;ve used a reactive function to create a reactive variable which can be used by both render functions </span></span>
+<span id="cb13-13"><a href="reactivity.html#cb13-13" aria-hidden="true" tabindex="-1"></a>  new_temp <span class="ot">&lt;-</span>  <span class="fu">reactive</span>({</span>
+<span id="cb13-14"><a href="reactivity.html#cb13-14" aria-hidden="true" tabindex="-1"></a>    airquality<span class="sc">$</span>Temp <span class="sc">*</span> input<span class="sc">$</span>tempModifier</span>
+<span id="cb13-15"><a href="reactivity.html#cb13-15" aria-hidden="true" tabindex="-1"></a>  })</span>
+<span id="cb13-16"><a href="reactivity.html#cb13-16" aria-hidden="true" tabindex="-1"></a>  </span>
+<span id="cb13-17"><a href="reactivity.html#cb13-17" aria-hidden="true" tabindex="-1"></a>  output<span class="sc">$</span>airResult <span class="ot">&lt;-</span> <span class="fu">renderText</span>({</span>
+<span id="cb13-18"><a href="reactivity.html#cb13-18" aria-hidden="true" tabindex="-1"></a>    <span class="fu">paste0</span>(<span class="st">&quot;the average of the modified temperature is:&quot;</span>, <span class="fu">mean</span>(<span class="fu">new_temp</span>()))</span>
+<span id="cb13-19"><a href="reactivity.html#cb13-19" aria-hidden="true" tabindex="-1"></a>  })</span>
+<span id="cb13-20"><a href="reactivity.html#cb13-20" aria-hidden="true" tabindex="-1"></a>  </span>
+<span id="cb13-21"><a href="reactivity.html#cb13-21" aria-hidden="true" tabindex="-1"></a>  output<span class="sc">$</span>plotResult <span class="ot">&lt;-</span>  <span class="fu">renderPlot</span>({</span>
+<span id="cb13-22"><a href="reactivity.html#cb13-22" aria-hidden="true" tabindex="-1"></a>    <span class="fu">plot</span>(<span class="at">x=</span>airquality<span class="sc">$</span>Temp, <span class="at">y =</span> <span class="fu">new_temp</span>(), <span class="at">ylim =</span> <span class="fu">c</span>(<span class="dv">0</span>, <span class="dv">8000</span>))</span>
+<span id="cb13-23"><a href="reactivity.html#cb13-23" aria-hidden="true" tabindex="-1"></a>  })</span>
+<span id="cb13-24"><a href="reactivity.html#cb13-24" aria-hidden="true" tabindex="-1"></a>  </span>
+<span id="cb13-25"><a href="reactivity.html#cb13-25" aria-hidden="true" tabindex="-1"></a>}</span>
+<span id="cb13-26"><a href="reactivity.html#cb13-26" aria-hidden="true" tabindex="-1"></a></span>
+<span id="cb13-27"><a href="reactivity.html#cb13-27" aria-hidden="true" tabindex="-1"></a><span class="fu">shinyApp</span>(ui, server)</span></code></pre></div>
 
+</div>
 </div>
 </div>
             </section>
